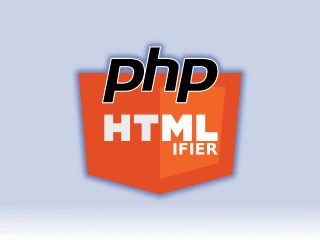
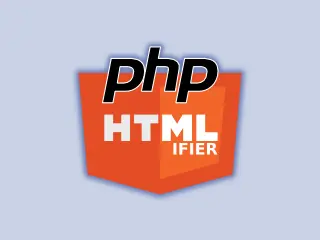
Add new webp versions of images

Changed region(s): [[0.0, 0.9042, 1.0, 1.0]]

diff --git a/docs/_posts/2018-10-02-game-bike.html b/docs/_posts/2018-10-02-game-bike.html
@@ -15,19 +15,19 @@ description: Turning an exercise bike into a racing-car game-controller
 
 <p style="text-align: justify;">The prototype proved the idea, it was great fun and everyone that tried it loved using it, including myself. It was really rough though and the front wheel caused damage to the carpet after heavy use. Also, the steering on a gamepad isn't interpreted as steering angle - it's interpreted as steering <em>effort</em>. While this may seem like a small difference, it is noticible when gaming. A year later I purchased a cycle trainer in order to build a more permanent and convenient version.</p>
 <h2>Prototype 2 - 2014</h2>
-<p><img loading="lazy" src="https://raw.githubusercontent.com/MarkHedleyJones/markhedleyjones.github.io/master/media/GameBike/DSC_4922_cropped.jpg" alt="Original exercise bike"></p>
+<p><img loading="lazy" src="https://raw.githubusercontent.com/MarkHedleyJones/markhedleyjones.github.io/master/media/GameBike/DSC_4922_cropped.webp" alt="Original exercise bike"></p>
 <p style="text-align: justify;">After stripping the exercise bike, fitting handle-bars, brakes, and sensors, it was much more convenient to use. But it still had a very prototype appearance due to the fact that the housings for the sensors was made from wood. The pieces of wool were routed using a router and a dremel. An encoder wheel was attached to the crank with slots cut for the infra-red beam-break sensor. This version worked on the PC as a Logitech G25 racing wheel, so the input was now steering angle. This felt much better.</p>
 
-<p><img loading="lazy" src="https://raw.githubusercontent.com/MarkHedleyJones/markhedleyjones.github.io/master/media/GameBike/IMG_20150624_181520.jpg" alt="Prototype 2"></p>
+<p><img loading="lazy" src="https://raw.githubusercontent.com/MarkHedleyJones/markhedleyjones.github.io/master/media/GameBike/IMG_20150624_181520.webp" alt="Prototype 2"></p>
 
 <h2>Prototype 3 - 2016</h2>
 
 <p style="text-align: justify;">I purchased a 3D printer so I could make a single housing at the base of the handle-bars that would hold the brake sensors, proper bearings for the steering shaft, and the electronics. This version could connect to a Playstation 4 and appeared as a Logitech G29 racing wheel. This version included a mount for a PS4 controller so you could easily navigate through menus while sitting on the bike. It used GIMX emulator to trick the Playstation 4 into thinking the device was a Logitech racing wheel. It also included thumb buttons so you could change gears while driving vehicles with manual transmissions. Controller authentication was handled by forwarding authentication requests to the official Dualshock controller, but the device still appeared as a racing wheel to the Playstation4.</p>
 <p style="text-align: justify;">A friend of mine, who is a personal trainer, tested the bike out with some of his clients. The feedback was really positive, apart from complaints that the mechanism was a bit flimsy. Also, there were a few connectivity issues and the bike had to be plugged into the PS4 via USB and required power from the wall to run the electronics on the bike. Unfortunately I didn't take any decent photos of the finished product, but my friend took a couple.</p>
-<p><img loading="lazy" src="https://raw.githubusercontent.com/MarkHedleyJones/markhedleyjones.github.io/master/media/GameBike/photo_2017-04-27_10-04-56.jpg" alt="Prototype 3"><br><br></p>
+<p><img loading="lazy" src="https://raw.githubusercontent.com/MarkHedleyJones/markhedleyjones.github.io/master/media/GameBike/photo_2017-04-27_10-04-56.webp" alt="Prototype 3"><br><br></p>
 <p style="text-align: center;">
-  <img loading="lazy" style="text-align: center;" src="https://raw.githubusercontent.com/MarkHedleyJones/markhedleyjones.github.io/master/media/GameBike/front-view.jpg" alt="Prototype 2 - housing">
-  <img loading="lazy" style="text-align: center;" src="https://raw.githubusercontent.com/MarkHedleyJones/markhedleyjones.github.io/master/media/GameBike/gym-view.jpg" alt="At the gym">
+  <img loading="lazy" style="text-align: center;" src="https://raw.githubusercontent.com/MarkHedleyJones/markhedleyjones.github.io/master/media/GameBike/front-view.webp" alt="Prototype 2 - housing">
+  <img loading="lazy" style="text-align: center;" src="https://raw.githubusercontent.com/MarkHedleyJones/markhedleyjones.github.io/master/media/GameBike/gym-view.webp" alt="At the gym">
 </p>
 
 <h2>Prototype 4 - 2018</h2>
@@ -49,12 +49,12 @@ description: Turning an exercise bike into a racing-car game-controller
   Although not shown in the photo, the electronics were also housed inside the case. This version was much more sturdy and reliable than the previous prototypes. Although it didn't look very attractive, it worked really well.  However, after getting it all going, I decided to move to Japan. As part of that, I sold all my posessions including my workshop and the bike. Hopefully someone out there makes a better one and sells them commercially. It's definitely something I'd buy.
 </p>
 <p>
-  <img loading="lazy" src="https://raw.githubusercontent.com/MarkHedleyJones/markhedleyjones.github.io/master/media/GameBike/DSC_6511.jpg" alt="DSC 6511">
-  <img loading="lazy" src="https://raw.githubusercontent.com/MarkHedleyJones/markhedleyjones.github.io/master/media/GameBike/DSC_6517.jpg" alt="DSC 6517">
+  <img loading="lazy" src="https://raw.githubusercontent.com/MarkHedleyJones/markhedleyjones.github.io/master/media/GameBike/DSC_6511.webp" alt="DSC 6511">
+  <img loading="lazy" src="https://raw.githubusercontent.com/MarkHedleyJones/markhedleyjones.github.io/master/media/GameBike/DSC_6517.webp" alt="DSC 6517">
   <img loading="lazy" src="https://raw.githubusercontent.com/MarkHedleyJones/markhedleyjones.github.io/master/media/GameBike/mechanism-moving.gif" alt="Brake Mechanism">
-  <img loading="lazy" src="https://raw.githubusercontent.com/MarkHedleyJones/markhedleyjones.github.io/master/media/GameBike/DSC_6522.jpg" alt="DSC 6522">
-  <img loading="lazy" src="https://raw.githubusercontent.com/MarkHedleyJones/markhedleyjones.github.io/master/media/GameBike/DSC_6523.jpg" alt="DSC 6523">
-  <img loading="lazy" src="https://raw.githubusercontent.com/MarkHedleyJones/markhedleyjones.github.io/master/media/GameBike/DSC_6536.jpg" alt="DSC 6536">
-  <img loading="lazy" src="https://raw.githubusercontent.com/MarkHedleyJones/markhedleyjones.github.io/master/media/GameBike/DSC_6538.jpg" alt="DSC 6538">
-  <img loading="lazy" src="https://raw.githubusercontent.com/MarkHedleyJones/markhedleyjones.github.io/master/media/GameBike/DSC_6541.jpg" alt="DSC 6541"></p>
+  <img loading="lazy" src="https://raw.githubusercontent.com/MarkHedleyJones/markhedleyjones.github.io/master/media/GameBike/DSC_6522.webp" alt="DSC 6522">
+  <img loading="lazy" src="https://raw.githubusercontent.com/MarkHedleyJones/markhedleyjones.github.io/master/media/GameBike/DSC_6523.webp" alt="DSC 6523">
+  <img loading="lazy" src="https://raw.githubusercontent.com/MarkHedleyJones/markhedleyjones.github.io/master/media/GameBike/DSC_6536.webp" alt="DSC 6536">
+  <img loading="lazy" src="https://raw.githubusercontent.com/MarkHedleyJones/markhedleyjones.github.io/master/media/GameBike/DSC_6538.webp" alt="DSC 6538">
+  <img loading="lazy" src="https://raw.githubusercontent.com/MarkHedleyJones/markhedleyjones.github.io/master/media/GameBike/DSC_6541.webp" alt="DSC 6541"></p>
 <div id="disqus_thread"> </div>

diff --git a/docs/_posts/2018-06-21-duplicating-keys-from-photographs.html b/docs/_posts/2018-06-21-duplicating-keys-from-photographs.html
@@ -30,7 +30,7 @@ To duplicate the key, this guide will take you through each of the following ste
 </p>
 <h2>Photographing the key</h2>
 <p style="text-align: center; float: right; margin: 0 20px;">
-  <img loading="lazy" src="https://raw.githubusercontent.com/MarkHedleyJones/markhedleyjones.github.io/master/media/duplicating-keys-from-photographs/photo-of-key.jpg" alt="Photo of key" width="320" height="240">
+  <img loading="lazy" src="https://raw.githubusercontent.com/MarkHedleyJones/markhedleyjones.github.io/master/media/duplicating-keys-from-photographs/photo-of-key.webp" alt="Photo of key" width="320" height="240">
 </p>
 <p style="text-align: justify;">
   Using the highest focal length I had access to (85mm) I took a photo of the target key with the smallest aperture setting on the camera. A high focal length was used to help minimise any lens distortion resulting from a wide field of view. The small aperture was used because it puts everything in focus and increases the exposure time. With a long exposure time I could move a light source around to reduce shadowing. An exposure time of about three seconds was used with the camera mounted on a tripod. The result is shown to the right.
@@ -40,7 +40,7 @@ To duplicate the key, this guide will take you through each of the following ste
   The undistorted photo was imported into Inkscape and rescaled to match the dimensions of the actual key. In a way this was cheating as I measured the length of the target key using vernier callipers. If you don't have access to the physical key you could measure the blank key, or place a fiducial marker (such as a ruler) in the image at time of capture. The traced vector path was then exported from Inkscape as a DXF file for importing into SolidWorks.
 </p>
 <p>
-  <img loading="lazy" src="https://raw.githubusercontent.com/MarkHedleyJones/markhedleyjones.github.io/master/media/duplicating-keys-from-photographs/screenshot.jpg" alt="Inkscape Screenshot">
+  <img loading="lazy" src="https://raw.githubusercontent.com/MarkHedleyJones/markhedleyjones.github.io/master/media/duplicating-keys-from-photographs/screenshot.webp" alt="Inkscape Screenshot">
 </p>
 <h2>Determine Cutting Profile</h2>
 <p style="float: right; text-align: center;">
@@ -53,14 +53,14 @@ To duplicate the key, this guide will take you through each of the following ste
 <p style="text-align: justify;">
 To hold the key down I cut the shape of the key out from a piece of MDF. A well was cut into the MDF underneath where the profile was to be cut. To keep the key from jumping out of its I screwed a piece of wood over the top while cutting. One mistake I made was assuming that the dimensions of the blank key would be the same as the target key - they wern't. This meant that the profile wasn't cut in the right spot.</p>
 <p style="text-align: center;">
-  <img loading="lazy" src="https://raw.githubusercontent.com/MarkHedleyJones/markhedleyjones.github.io/master/media/duplicating-keys-from-photographs/DSC_5101.JPG" alt="DSC 5101" width="49.7%">
-  <img loading="lazy" src="https://raw.githubusercontent.com/MarkHedleyJones/markhedleyjones.github.io/master/media/duplicating-keys-from-photographs/DSC_5100.JPG" alt="DSC 5100" width="49.7%">
+  <img loading="lazy" src="https://raw.githubusercontent.com/MarkHedleyJones/markhedleyjones.github.io/master/media/duplicating-keys-from-photographs/DSC_5101.webp" alt="DSC 5101" width="49.7%">
+  <img loading="lazy" src="https://raw.githubusercontent.com/MarkHedleyJones/markhedleyjones.github.io/master/media/duplicating-keys-from-photographs/DSC_5100.webp" alt="DSC 5100" width="49.7%">
 </p>
 <h2 style="text-align: left;">Result</h2>
 <p style="text-align: justify;">
 I'm really happy with the shape of the contour in the new key (front), it's smooth and follows the original contours very well. You can see the misalignment between the keys when looking at the fronf of the key (notice the front key sticks out a millimeter or so further). Luckily, the position error of the contour didn't affect the operation of the key, as the following video proves.</p>
 <p>
-<img loading="lazy" src="https://raw.githubusercontent.com/MarkHedleyJones/markhedleyjones.github.io/master/media/duplicating-keys-from-photographs/DSC_5115.jpg" alt="Comparison of new key (dark blue) with original key (light blue)"></p>
+<img loading="lazy" src="https://raw.githubusercontent.com/MarkHedleyJones/markhedleyjones.github.io/master/media/duplicating-keys-from-photographs/DSC_5115.webp" alt="Comparison of new key (dark blue) with original key (light blue)"></p>
 <p style="text-align: center;">
   <iframe src="https://www.youtube.com/embed/-KiafLnPxmo?controls=1" width="690" height="390" allowfullscreen="allowfullscreen"></iframe>
 </p>

diff --git a/docs/_posts/2018-05-06-cnc-machined-stereo-camera-mount.html b/docs/_posts/2018-05-06-cnc-machined-stereo-camera-mount.html
@@ -14,10 +14,10 @@ excerpt_separator: \{% endhighlight %\}
   This is the first project where I've used the OmioCNC machine to mill aluminium (so there are some rough edges), but the result is more than adequate for use as a development mount for data capture.
 </p>
 <div style="text-align: center;">
-  <img loading="lazy" style="width: 48%; margin-bottom: 5px;" src="https://raw.githubusercontent.com/MarkHedleyJones/markhedleyjones.github.io/master/media/cnc-machined-stereo-camera-mount/DSC_4868_small.JPG" alt="CNC Camera Mount Close-up Front">
-  <img loading="lazy" style="width: 48%; margin-bottom: 5px;" src="https://raw.githubusercontent.com/MarkHedleyJones/markhedleyjones.github.io/master/media/cnc-machined-stereo-camera-mount/DSC_4865_small.JPG" alt="CNC Camera Mount Close-up Underside">
-  <img loading="lazy" style="width: 48%;" src="https://raw.githubusercontent.com/MarkHedleyJones/markhedleyjones.github.io/master/media/cnc-machined-stereo-camera-mount/DSC_4867_small.JPG" alt="CNC Camera Mount Close-up Top">
-  <img loading="lazy" style="width: 48%;" src="https://raw.githubusercontent.com/MarkHedleyJones/markhedleyjones.github.io/master/media/cnc-machined-stereo-camera-mount/DSC_4871_small.JPG" alt="CNC Camera Mount">
+  <img loading="lazy" style="width: 48%; margin-bottom: 5px;" src="https://raw.githubusercontent.com/MarkHedleyJones/markhedleyjones.github.io/master/media/cnc-machined-stereo-camera-mount/DSC_4868_small.webp" alt="CNC Camera Mount Close-up Front">
+  <img loading="lazy" style="width: 48%; margin-bottom: 5px;" src="https://raw.githubusercontent.com/MarkHedleyJones/markhedleyjones.github.io/master/media/cnc-machined-stereo-camera-mount/DSC_4865_small.webp" alt="CNC Camera Mount Close-up Underside">
+  <img loading="lazy" style="width: 48%;" src="https://raw.githubusercontent.com/MarkHedleyJones/markhedleyjones.github.io/master/media/cnc-machined-stereo-camera-mount/DSC_4867_small.webp" alt="CNC Camera Mount Close-up Top">
+  <img loading="lazy" style="width: 48%;" src="https://raw.githubusercontent.com/MarkHedleyJones/markhedleyjones.github.io/master/media/cnc-machined-stereo-camera-mount/DSC_4871_small.webp" alt="CNC Camera Mount">
 </div>
 <div style="text-align: center; margin-top: 20px;">
   <iframe src="https://www.youtube.com/embed/S4da-WXPG2k?controls=1" width="690" height="390" allowfullscreen="allowfullscreen">

diff --git a/docs/_posts/2014-07-30-electronics-tutorial-website.html b/docs/_posts/2014-07-30-electronics-tutorial-website.html
@@ -18,13 +18,13 @@ excerpt_separator: \{% endhighlight %\}
     <p style="text-align: center;">
       Before:
     </p>
-    <img loading="lazy" src="https://raw.githubusercontent.com/MarkHedleyJones/markhedleyjones.github.io/master/media/electronics-tutorial-website/etutorials_original.png" alt="Etutorials original">
+    <img loading="lazy" src="https://raw.githubusercontent.com/MarkHedleyJones/markhedleyjones.github.io/master/media/electronics-tutorial-website/etutorials_original.webp" alt="Etutorials original">
   </div>
   <div style="display: inline-block; width: 48%;">
     <p style="text-align: center;">
       After:
     </p>
-    <img loading="lazy" src="https://raw.githubusercontent.com/MarkHedleyJones/markhedleyjones.github.io/master/media/electronics-tutorial-website/etutorials_revision.png" alt="Etutorials revision">
+    <img loading="lazy" src="https://raw.githubusercontent.com/MarkHedleyJones/markhedleyjones.github.io/master/media/electronics-tutorial-website/etutorials_revision.webp" alt="Etutorials revision">
   </div>
 </div>
 <p style="text-align: center; margin-top: 20px">
@@ -125,5 +125,5 @@ $page->append(View::pose_question($question, True));
   </li>
 </ul>
 <p>
-  <img loading="lazy" src="https://raw.githubusercontent.com/MarkHedleyJones/markhedleyjones.github.io/master/media/electronics-tutorial-website/project_etutorials_courseeditor.png" alt="eTutorials course editor screenshot">
+  <img loading="lazy" src="https://raw.githubusercontent.com/MarkHedleyJones/markhedleyjones.github.io/master/media/electronics-tutorial-website/project_etutorials_courseeditor.webp" alt="eTutorials course editor screenshot">
 </p>

diff --git a/docs/_posts/2018-06-10-cider-gift-pack.html b/docs/_posts/2018-06-10-cider-gift-pack.html
@@ -24,14 +24,14 @@ excerpt_separator: \{% endhighlight %\}
   An acrylic window was created to replace the original wooden cover, onto which the Garden7 Cider Co brand and a special message was engraved.
 </p>
 <p style="text-align: center;">
-  <img loading="lazy" src="https://raw.githubusercontent.com/MarkHedleyJones/markhedleyjones.github.io/master/media/cider-gift-pack/DSC_4900.jpg" alt="DSC 4900">
+  <img loading="lazy" src="https://raw.githubusercontent.com/MarkHedleyJones/markhedleyjones.github.io/master/media/cider-gift-pack/DSC_4900.webp" alt="DSC 4900">
   Bottle next to the engraved acrylic window
 </p>
 <p style="text-align: center;">
-  <img loading="lazy" src="https://raw.githubusercontent.com/MarkHedleyJones/markhedleyjones.github.io/master/media/cider-gift-pack/Garden7_Logo4.png" alt="Garden7 Cider Label">
+  <img loading="lazy" src="https://raw.githubusercontent.com/MarkHedleyJones/markhedleyjones.github.io/master/media/cider-gift-pack/Garden7_Logo4.webp" alt="Garden7 Cider Label">
   Vector graphic label used to print onto the labels
 </p>
 <p style="text-align: center;">
-  <img loading="lazy" src="https://raw.githubusercontent.com/MarkHedleyJones/markhedleyjones.github.io/master/media/cider-gift-pack/DSC_4891.jpg" alt="Two gift packs of of Garden7 Cider">
+  <img loading="lazy" src="https://raw.githubusercontent.com/MarkHedleyJones/markhedleyjones.github.io/master/media/cider-gift-pack/DSC_4891.webp" alt="Two gift packs of of Garden7 Cider">
   Two bottles of Garden7 cider with custom engraved acrylic windows
 </p>

diff --git a/docs/_posts/2021-05-12-blender-pcd-io.html b/docs/_posts/2021-05-12-blender-pcd-io.html
@@ -37,6 +37,6 @@ This project is an add-on that enables importing and exporting PCD files directl
 
 <p style="text-align: center;">
   <a href="https://github.com/MarkHedleyJones/blender-pcd-io">
-  <img alt="Importing a PCD file with blender" src="https://raw.githubusercontent.com/MarkHedleyJones/blender-pcd-io/master/media/screenshot.png"/>
+  <img alt="Importing a PCD file with blender" src="https://raw.githubusercontent.com/MarkHedleyJones/blender-pcd-io/master/media/screenshot.webp"/>
   </a>
 </p>

diff --git a/docs/_sass/minima/custom-styles.scss b/docs/_sass/minima/custom-styles.scss
@@ -1,2 +1,18 @@
 // Placeholder to allow defining custom styles that override everything else.
 // (Use `_sass/minima/custom-variables.scss` to override variable defaults)
+
+// Image responsiveness and max-width
+.post-content img {
+  max-width: 100%;
+  height: auto;
+  display: block;
+  margin: 1em auto;
+  border-radius: 4px;
+  box-shadow: 0 2px 8px rgba(0,0,0,0.1);
+}
+
+// Ensure images in markdown don't exceed container
+img {
+  max-width: 100%;
+  height: auto;
+}

diff --git a/docs/_posts/2012-03-16-houser.md b/docs/_posts/2012-03-16-houser.md
@@ -34,29 +34,29 @@ Online advertising included Google AdWords and Facebook advertising.
 
 <img loading="lazy" style="margin-left: 60px; float: left; height: 465px" src="https://raw.githubusercontent.com/MarkHedleyJones/markhedleyjones.github.io/master/media/houser/flyer.svg" alt="Flyer">
 <p style="text-align: center;">
-  <img loading="lazy" style="margin-bottom: 10px" src="https://raw.githubusercontent.com/MarkHedleyJones/markhedleyjones.github.io/master/media/houser/Houser-FootpathSign-2012-10-17%2006.58.09.jpg" alt="Houser FootpathSign 2012 10 17%2006.58.09" width="310" height="232">
-  <img loading="lazy" src="https://raw.githubusercontent.com/MarkHedleyJones/markhedleyjones.github.io/master/media/houser/flyers.jpg" alt="Flyers" width="309" height="232">
+  <img loading="lazy" style="margin-bottom: 10px" src="https://raw.githubusercontent.com/MarkHedleyJones/markhedleyjones.github.io/master/media/houser/Houser-FootpathSign-2012-10-17%2006.58.09.webp" alt="Houser FootpathSign 2012 10 17%2006.58.09" width="310" height="232">
+  <img loading="lazy" src="https://raw.githubusercontent.com/MarkHedleyJones/markhedleyjones.github.io/master/media/houser/flyers.webp" alt="Flyers" width="309" height="232">
 </p>
 
 # Screenshots:
 
 <p style="text-align: center;">
-  <a href="https://raw.githubusercontent.com/MarkHedleyJones/markhedleyjones.github.io/master/media/houser/Houser-Screenshot-Homepage.png">
-    <img loading="lazy" style="text-align: center;" src="https://raw.githubusercontent.com/MarkHedleyJones/markhedleyjones.github.io/master/media/houser/Houser-Screenshot-Homepage.png" alt="Houser Screenshot Homepage">
+  <a href="https://raw.githubusercontent.com/MarkHedleyJones/markhedleyjones.github.io/master/media/houser/Houser-Screenshot-Homepage.webp">
+    <img loading="lazy" style="text-align: center;" src="https://raw.githubusercontent.com/MarkHedleyJones/markhedleyjones.github.io/master/media/houser/Houser-Screenshot-Homepage.webp" alt="Houser Screenshot Homepage">
   </a>
 </p>
 <p style="text-align: center;">
-  <a href="https://raw.githubusercontent.com/MarkHedleyJones/markhedleyjones.github.io/master/media/houser/Houser-Screenshot-Listing.png">
-    <img loading="lazy" style="text-align: center;" src="https://raw.githubusercontent.com/MarkHedleyJones/markhedleyjones.github.io/master/media/houser/Houser-Screenshot-Listing.png" alt="Houser Screenshot Listing">
+  <a href="https://raw.githubusercontent.com/MarkHedleyJones/markhedleyjones.github.io/master/media/houser/Houser-Screenshot-Listing.webp">
+    <img loading="lazy" style="text-align: center;" src="https://raw.githubusercontent.com/MarkHedleyJones/markhedleyjones.github.io/master/media/houser/Houser-Screenshot-Listing.webp" alt="Houser Screenshot Listing">
   </a>
 </p>
 <p style="text-align: center;">
-  <a href="https://raw.githubusercontent.com/MarkHedleyJones/markhedleyjones.github.io/master/media/houser/Houser-Screenshot-Search.png">
-    <img loading="lazy" style="text-align: center;" src="https://raw.githubusercontent.com/MarkHedleyJones/markhedleyjones.github.io/master/media/houser/Houser-Screenshot-Search.png" alt="Houser Screenshot Search">
+  <a href="https://raw.githubusercontent.com/MarkHedleyJones/markhedleyjones.github.io/master/media/houser/Houser-Screenshot-Search.webp">
+    <img loading="lazy" style="text-align: center;" src="https://raw.githubusercontent.com/MarkHedleyJones/markhedleyjones.github.io/master/media/houser/Houser-Screenshot-Search.webp" alt="Houser Screenshot Search">
   </a>
 </p>
 <p style="text-align: center;">
-  <a href="https://raw.githubusercontent.com/MarkHedleyJones/markhedleyjones.github.io/master/media/houser/Houser-Screenshot-Transaction.png">
-    <img loading="lazy" style="text-align: center;" src="https://raw.githubusercontent.com/MarkHedleyJones/markhedleyjones.github.io/master/media/houser/Houser-Screenshot-Transaction.png" alt="Houser Screenshot Transaction">
+  <a href="https://raw.githubusercontent.com/MarkHedleyJones/markhedleyjones.github.io/master/media/houser/Houser-Screenshot-Transaction.webp">
+    <img loading="lazy" style="text-align: center;" src="https://raw.githubusercontent.com/MarkHedleyJones/markhedleyjones.github.io/master/media/houser/Houser-Screenshot-Transaction.webp" alt="Houser Screenshot Transaction">
   </a>
 </p>

diff --git a/docs/_posts/2023-12-05-note-using-tracy-profiler.md b/docs/_posts/2023-12-05-note-using-tracy-profiler.md
@@ -70,7 +70,7 @@ Execute this binary to start the viewer.
 ./Tracy-release
 ```
 You should now have a profile viewer running on your machine like:
-![profile_viewer](https://raw.githubusercontent.com/MarkHedleyJones/markhedleyjones.github.io/master/media/2023-12-05-note-using-tracy-profiler/profile_viewer.png)
+![profile_viewer](https://raw.githubusercontent.com/MarkHedleyJones/markhedleyjones.github.io/master/media/2023-12-05-note-using-tracy-profiler/profile_viewer.webp)
 
 
 ### Profiling your application
@@ -82,4 +82,4 @@ sudo ./<your_project_executable>
 ```
 You should now be able to see a profile like:
 
-![profile_viewer](https://raw.githubusercontent.com/MarkHedleyJones/markhedleyjones.github.io/master/media/2023-12-05-note-using-tracy-profiler/captured_profile.png)
+![profile_viewer](https://raw.githubusercontent.com/MarkHedleyJones/markhedleyjones.github.io/master/media/2023-12-05-note-using-tracy-profiler/captured_profile.webp)
